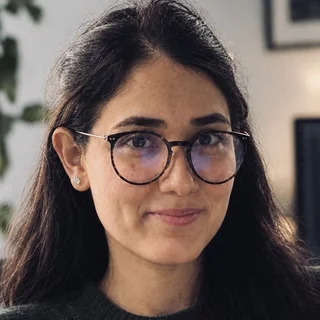
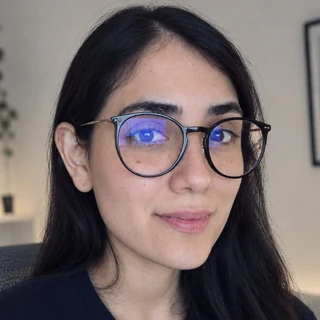
Updates the profile photo

diff --git a/index.html b/index.html
@@ -56,7 +56,7 @@
 
     <header class="hero hero-aurora" id="main">
         <div class="container">
-            <span class="hero-photo-ring"><img src="nat-sm.webp?v=2" alt="Natalia Andrzejewski" class="hero-photo" width="150" height="150"></span>
+            <span class="hero-photo-ring"><img src="nat-sm.webp?v=3" alt="Natalia Andrzejewski" class="hero-photo" width="150" height="150"></span>
             <h1 data-i18n="home.hero.greeting">Hey, I'm Nat</h1>
             <p class="hero-lead" data-i18n-html="home.hero.lead">I build accessibility tools from lived experience.<br><strong>Design for one, help everyone</strong>.</p>
             <p class="subtitle hero-cred" data-i18n="home.hero.cred">iOS developer who's shipped to millions · M.Sc. in AI in progress</p>
